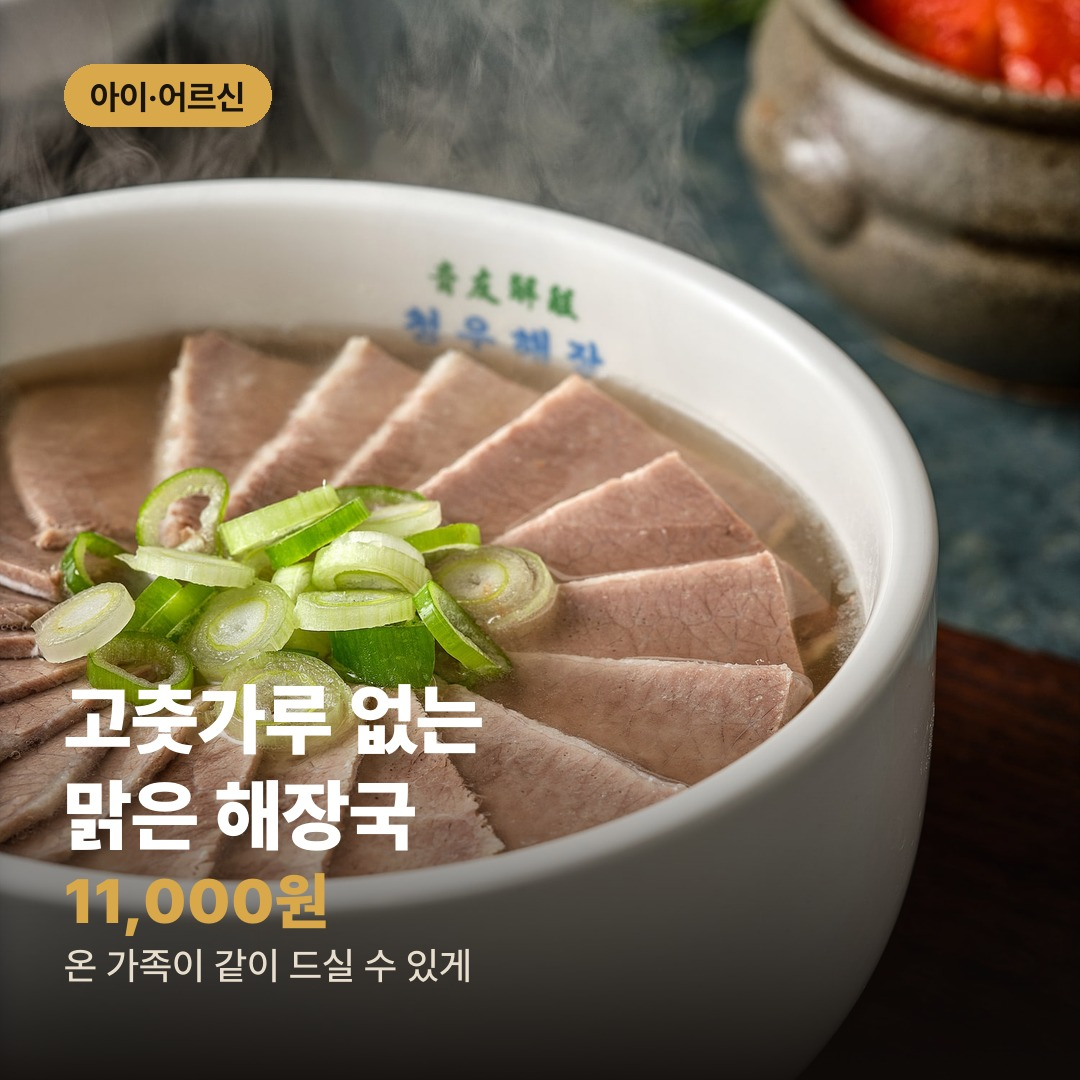
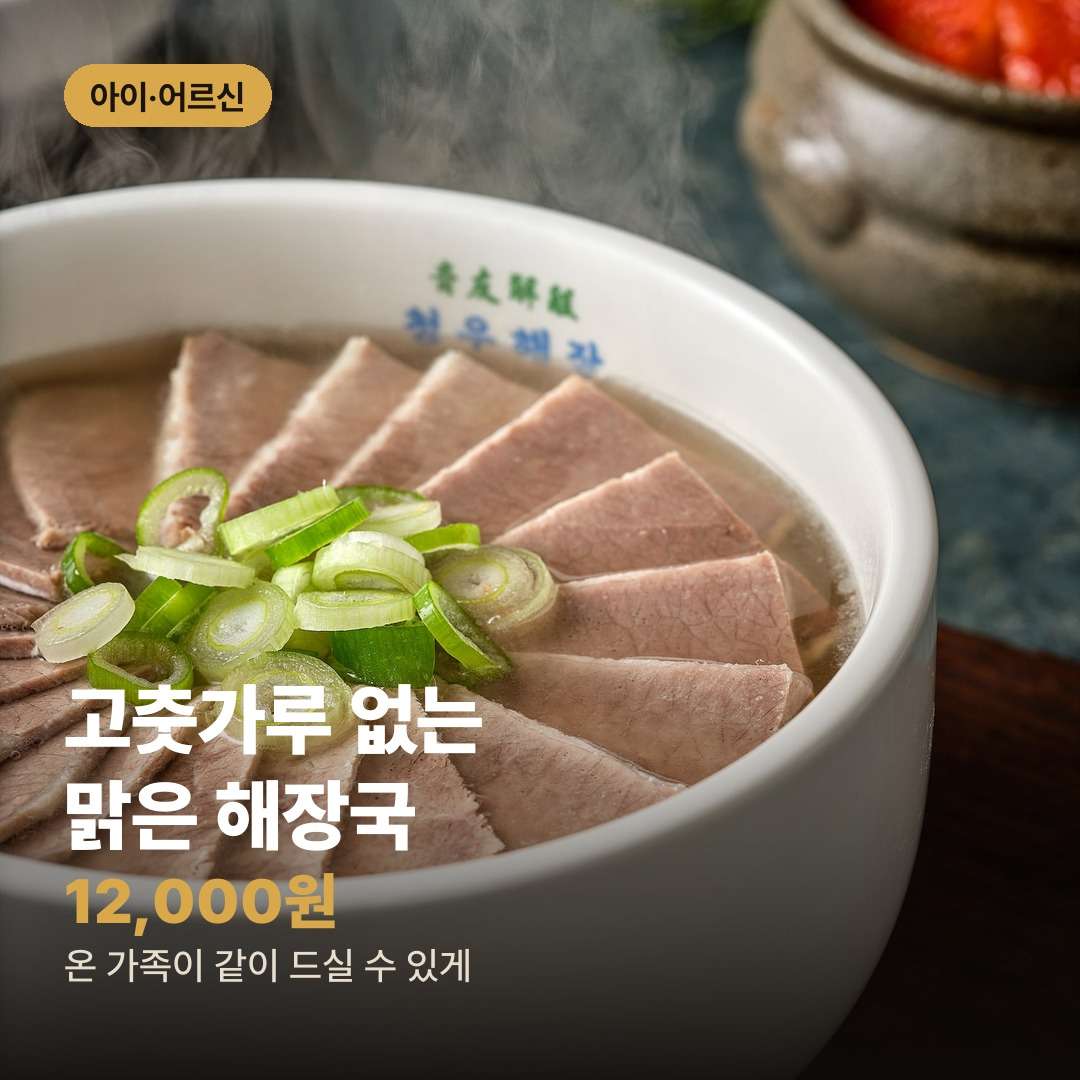
카드 생성 스크립트 레포에 보관 + 새 가격 카드 재생성

Changed region(s): [[0.0917, 0.7944, 0.3361, 0.8861]]

diff --git a/ads/tools/make_cards.py b/ads/tools/make_cards.py
@@ -1,0 +1,54 @@
+# -*- coding: utf-8 -*-
+"""청우해장 메타 캐러셀 카드 생성 (1080x1080). 가격 바뀌면 CARDS만 고치고 다시 실행.
+   실행: python3 ads/tools/make_cards.py  (레포 루트에서)"""
+from PIL import Image, ImageDraw, ImageFont
+import os, sys
+ROOT=os.path.dirname(os.path.dirname(os.path.dirname(os.path.abspath(__file__))))
+SRC=os.path.join(ROOT,"images"); OUT=os.path.join(ROOT,"ads","carousel-2026-09")
+F=os.path.expanduser("~/Library/Fonts")
+BLACK,BOLD,MED=f"{F}/Pretendard-Black.otf",f"{F}/Pretendard-Bold.otf",f"{F}/Pretendard-Medium.otf"
+S,GOLD=1080,(216,168,74)
+def fit(path,focus=0.5):
+    im=Image.open(path).convert("RGB"); w,h=im.size
+    if w>h:
+        nw=int(w*S/h); im=im.resize((nw,S),Image.LANCZOS); l=(nw-S)//2; return im.crop((l,0,l+S,S))
+    nh=int(h*S/w); im=im.resize((S,nh),Image.LANCZOS); t=int((nh-S)*focus); return im.crop((0,t,S,t+S))
+def grad(im,height=560,strength=232):
+    g=Image.new("L",(1,height))
+    for y in range(height): g.putpixel((0,y),int(strength*((y/(height-1))**1.7)))
+    g=g.resize((S,height)); blk=Image.new("RGB",(S,height),(14,11,9))
+    im.paste(Image.composite(blk,im.crop((0,S-height,S,S)),g),(0,S-height)); return im
+def badge(d,t,x=64,y=64):
+    f=ImageFont.truetype(BOLD,34); tw=d.textlength(t,font=f)
+    d.rounded_rectangle([x,y,x+tw+52,y+62],radius=31,fill=GOLD); d.text((x+26,y+12),t,font=f,fill=(26,20,14))
+def block(d,lines,price=None,note=None):
+    fh,fp,fn=ImageFont.truetype(BLACK,78),ImageFont.truetype(BLACK,62),ImageFont.truetype(MED,38)
+    y=S-92
+    if note: y-=46; d.text((64,y),note,font=fn,fill=(232,222,205))
+    if price: y-=78; d.text((64,y),price,font=fp,fill=GOLD)
+    for ln in reversed(lines): y-=96; d.text((64,y),ln,font=fh,fill=(255,255,255))
+# (파일, 저장명, 배지, [헤드라인], 가격, 보조문구, 세로크롭 위치)  — 가격은 네이버 스마트플레이스 2026-09-01 기준
+CARDS=[
+ ("cheongwoo-queue.jpg","01-hook","약령시 350년 골목",["줄 서는 데는","이유가 있습니다"],None,"반월당역 도보 5분 · 청우해장",0.35),
+ ("food-galbitang.jpg","02-galbitang","대표 메뉴",["갈빗대 통째로","소갈비탕"],"16,000원","12시간 고아낸 맑은 소고기 육수",0.5),
+ ("food-ribs.jpg","03-ribs","대구 10미",["소갈비찜","마늘폭탄"],"22,000원","대구식 매운 찜갈비 그대로",0.5),
+ ("food-spicy.jpg","04-spicy","해장 1순위",["48시간 고아낸","따로국밥"],"13,000원","얼큰하지만 속은 편안하게",0.42),
+ ("food-clear.jpg","05-clear","아이·어르신",["고춧가루 없는","맑은 해장국"],"12,000원","온 가족이 같이 드실 수 있게",0.42),
+ ("food-yukhoe.jpg","06-yukhoe","점심 인기",["신선한","육회비빔밥"],"14,000원","청우만의 숙성 간장으로",0.5),
+ ("food-naengmyeon.jpg","07-naengmyeon","여름 한정",["청우","평양냉면"],"13,000원","양지·사태만 12시간 우린 육수",0.5),
+ ("hood-gate.jpg","08-cta","근대골목투어 코스",["약전골목에서","기다립니다"],None,"전화 예약 053-255-7052 · 매일 11:00–22:00",0.5),
+ ("cheongwoo-02.jpg","09-review","구글 리뷰 4.8★",["국물이 시원해서","몸보신하는 기분"],None,"실제 방문 후기 · 남녀노소 다들 좋아할 맛",0.45),
+ ("hood-mural.jpg","10-tourist","근대골목 도보 3분",["대구 나들이","점심은 여기서"],None,"약령시 · 서문시장 · 동성로 모두 도보권",0.5),
+]
+os.makedirs(OUT,exist_ok=True)
+for fn,name,bg,lines,price,note,focus in CARDS:
+    p=os.path.join(SRC,fn)
+    if not os.path.exists(p): print("MISSING",fn); continue
+    im=grad(fit(p,focus)); d=ImageDraw.Draw(im); badge(d,bg); block(d,lines,price,note)
+    im.save(os.path.join(OUT,f"{name}.jpg"),"JPEG",quality=92,optimize=True); print("OK",name,price or "")
+# 미리보기 시트
+import glob
+fs=[f for f in sorted(glob.glob(os.path.join(OUT,"*.jpg"))) if not os.path.basename(f).startswith("_")]
+T=380; sh=Image.new("RGB",(T*5,T*2),(18,16,14))
+for i,f in enumerate(fs): sh.paste(Image.open(f).resize((T-8,T-8),Image.LANCZOS),((i%5)*T+4,(i//5)*T+4))
+sh.save(os.path.join(OUT,"_preview-sheet.jpg"),quality=88); print("sheet",len(fs))

diff --git a/ads/carousel-2026-09/README.md b/ads/carousel-2026-09/README.md
@@ -47,7 +47,7 @@
 ## 계절 교체 안내
 - **9월 말** 카드 7(평양냉면) → 얼큰 장칼국수(images/food-kalguksu.jpg)로 교체 권장.
   배지 "겨울 한정", 헤드라인 "속까지 뜨끈한 / 얼큰 장칼국수", 12,000원.
-- 생성 스크립트: scratchpad/make_cards.py (SRC/OUT 경로만 맞추면 재생성 가능)
+- 생성 스크립트: ads/tools/make_cards.py — 레포 루트에서 python3 ads/tools/make_cards.py
 
 ## 주의
 - 리뷰 인용문은 실제 구글 후기(src/reviews.mjs)에서만 가져올 것.
